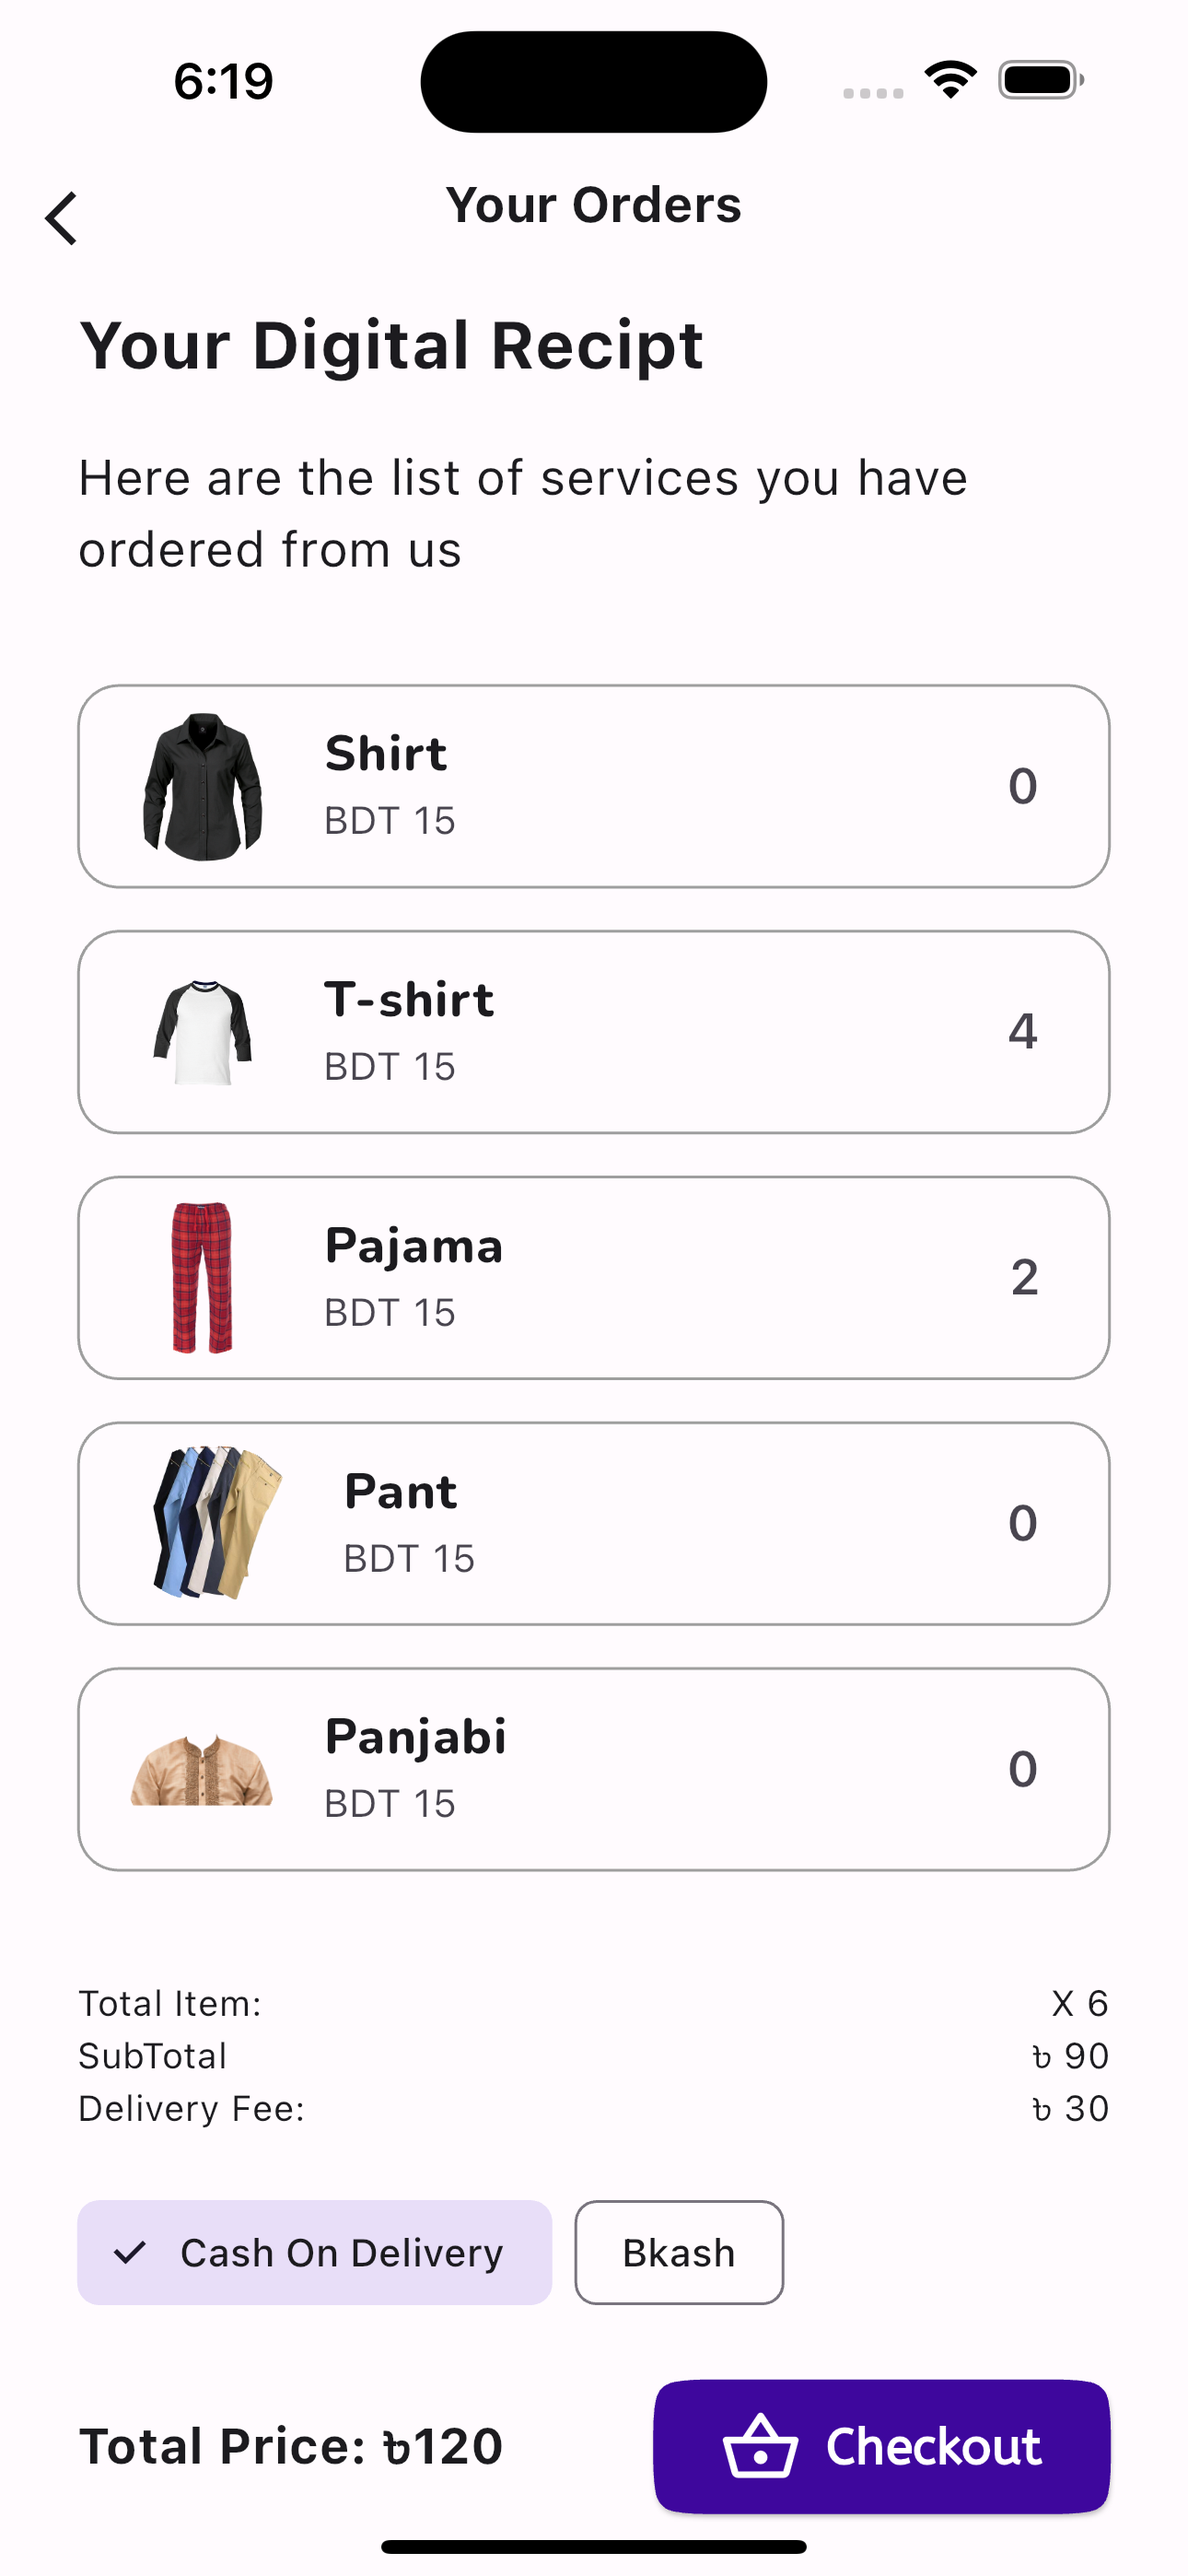
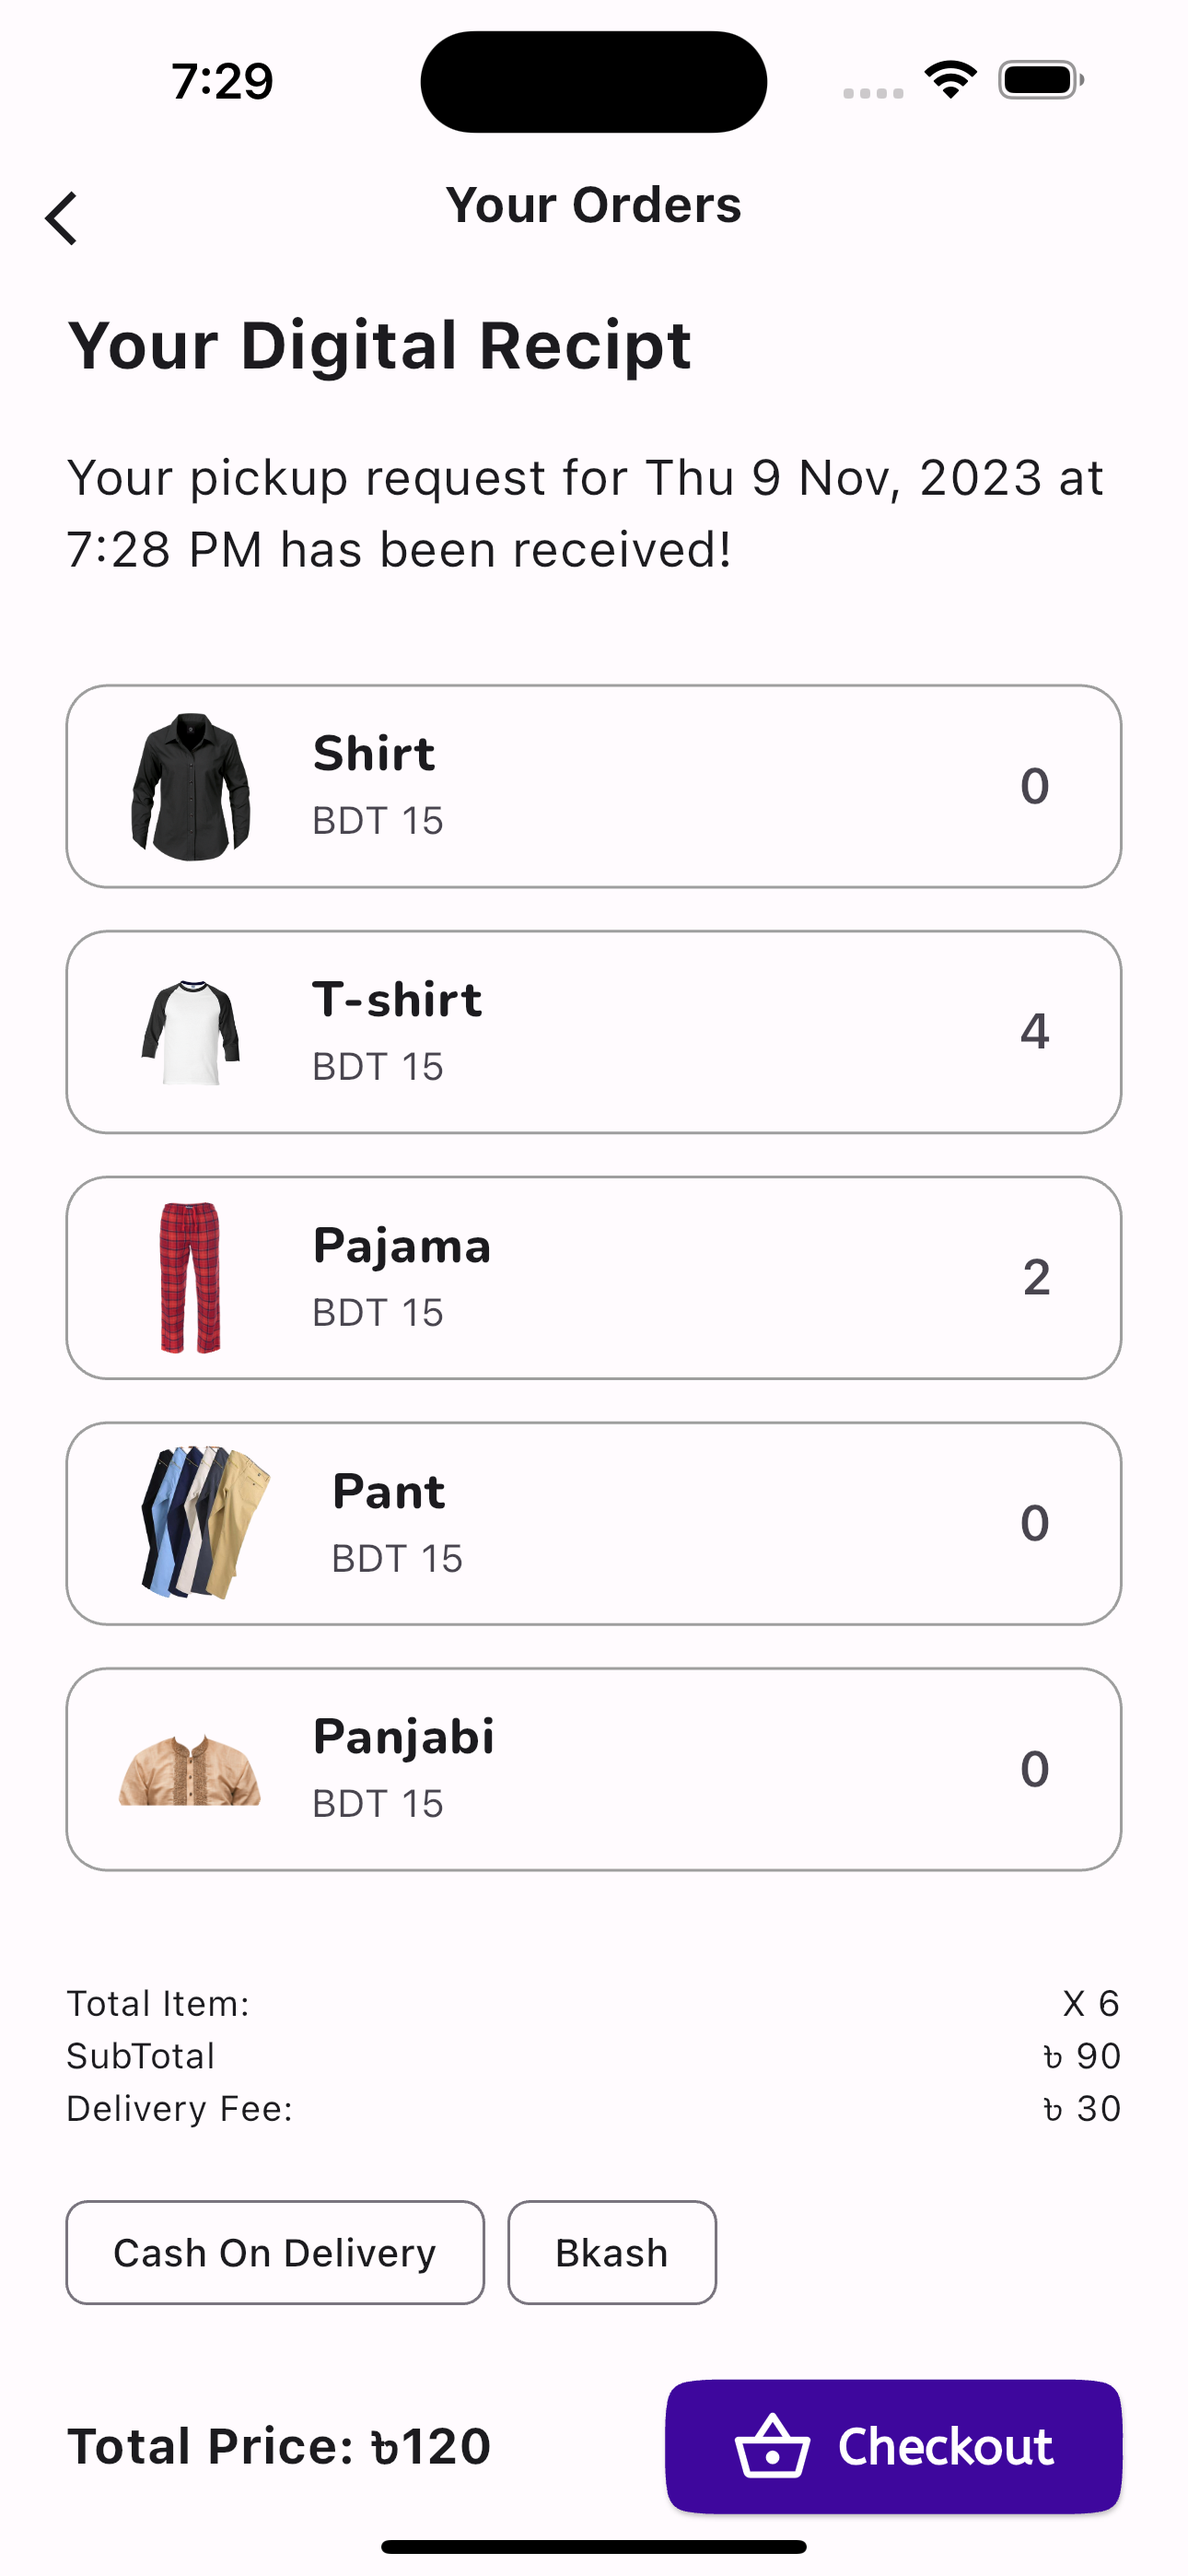
time date added

diff --git a/frontend/laundry_mama/lib/pages/time_slot_page.dart b/frontend/laundry_mama/lib/pages/time_slot_page.dart
@@ -4,6 +4,7 @@ import 'package:date_picker_timeline/date_picker_widget.dart';
 import 'package:day_night_time_picker/day_night_time_picker.dart';
 import 'package:flutter/material.dart';
 import 'package:gap/gap.dart';
+import 'package:intl/intl.dart';
 import 'package:laundry_mama/global/routes.dart';
 import 'package:laundry_mama/widgets/head4.dart';
 
@@ -23,7 +24,10 @@ class _TimeSlotPageState extends State<TimeSlotPage> {
     setState(() {
       _time = newTime;
     });
-    Navigator.pushReplacementNamed(context, CART_PAGE);
+    Navigator.pushReplacementNamed(context, CART_PAGE, arguments: {
+      'time': _time.format(context),
+      'date': DateFormat('EEE d MMM, y').format(_selectedDate)
+    });
   }
 
   @override
@@ -41,13 +45,12 @@ class _TimeSlotPageState extends State<TimeSlotPage> {
       body: Center(
         child: SingleChildScrollView(
           child: Padding(
-            padding: EdgeInsets.symmetric(horizontal: width * 0.065),
+            padding: EdgeInsets.symmetric(horizontal: width * 0.055),
             child: Column(
               mainAxisAlignment: MainAxisAlignment.center,
               children: [
                 const Head4(text: 'Choose when You\'d like to call the rider'),
-                Gap(height * 0.02),
-                Gap(height * 0.03),
+                Gap(height * 0.05),
                 SizedBox(
                   height: height * 0.1,
                   child: DatePicker(

diff --git a/frontend/laundry_mama/lib/pages/cart_page.dart b/frontend/laundry_mama/lib/pages/cart_page.dart
@@ -27,6 +27,12 @@ class _CartPageState extends State<CartPage> {
     final width = MediaQuery.of(context).size.width;
     final height = MediaQuery.of(context).size.height;
 
+    final Map<String, dynamic> args =
+        ModalRoute.of(context)!.settings.arguments as Map<String, dynamic>;
+
+    final time = args['time'];
+    final date = args['date'];
+
     return Scaffold(
       appBar: AppBar(
         elevation: 0,
@@ -36,15 +42,16 @@ class _CartPageState extends State<CartPage> {
       ),
       body: SingleChildScrollView(
         child: Padding(
-          padding: EdgeInsets.symmetric(horizontal: width * 0.065),
+          padding: EdgeInsets.symmetric(horizontal: width * 0.055),
           child: Column(
             crossAxisAlignment: CrossAxisAlignment.start,
             children: [
               Gap(height * 0.02),
               const Head4(text: 'Your Digital Recipt'),
               Gap(height * 0.02),
-              const Head5(
-                text: 'Here are the list of services you have ordered from us',
+              Head5(
+                text:
+                    'Your pickup request for $date at $time has been received!',
                 fontWeight: FontWeight.w400,
               ),
               Gap(height * 0.03),

diff --git a/frontend/laundry_mama/lib/pages/homepage.dart b/frontend/laundry_mama/lib/pages/homepage.dart
@@ -41,7 +41,7 @@ class _HomePageState extends State<HomePage> {
       appBar: homepageAppbar(context, width),
       body: SingleChildScrollView(
         child: Padding(
-          padding: EdgeInsets.symmetric(horizontal: width * 0.065),
+          padding: EdgeInsets.symmetric(horizontal: width * 0.055),
           child: Column(
             crossAxisAlignment: CrossAxisAlignment.start,
             children: [

diff --git a/frontend/laundry_mama/lib/pages/in_progress.dart b/frontend/laundry_mama/lib/pages/in_progress.dart
@@ -47,7 +47,7 @@ class _InProgressState extends State<InProgress> {
       body: SingleChildScrollView(
         child: Center(
           child: Padding(
-            padding: EdgeInsets.symmetric(horizontal: width * 0.065),
+            padding: EdgeInsets.symmetric(horizontal: width * 0.055),
             child: Column(
               crossAxisAlignment: CrossAxisAlignment.center,
               children: [

diff --git a/frontend/laundry_mama/lib/pages/types_of_service.dart b/frontend/laundry_mama/lib/pages/types_of_service.dart
@@ -38,7 +38,7 @@ class _TypesOfServiceState extends State<TypesOfService> {
       ),
       body: SingleChildScrollView(
         child: Padding(
-          padding: EdgeInsets.symmetric(horizontal: width * 0.065),
+          padding: EdgeInsets.symmetric(horizontal: width * 0.055),
           child: Column(
             crossAxisAlignment: CrossAxisAlignment.start,
             children: [

diff --git a/frontend/laundry_mama/lib/pages/quantity_page.dart b/frontend/laundry_mama/lib/pages/quantity_page.dart
@@ -56,7 +56,7 @@ class _QuantityPageState extends State<QuantityPage> {
       ),
       body: SingleChildScrollView(
         child: Padding(
-          padding: EdgeInsets.symmetric(horizontal: width * 0.065),
+          padding: EdgeInsets.symmetric(horizontal: width * 0.055),
           child: Column(
             crossAxisAlignment: CrossAxisAlignment.start,
             children: [
